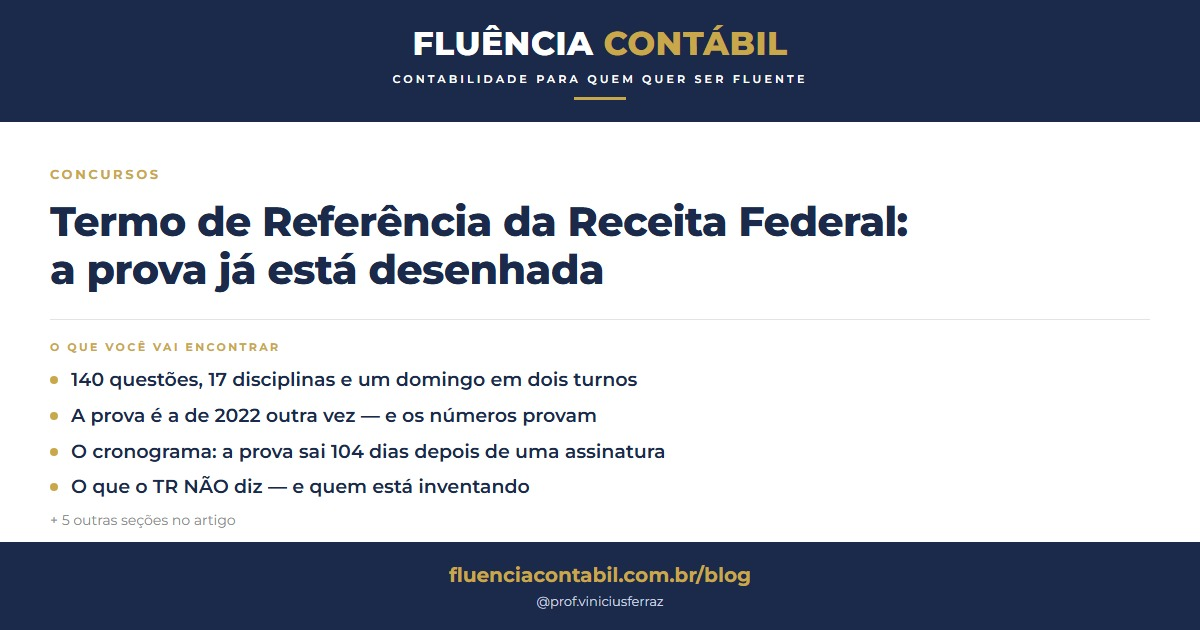
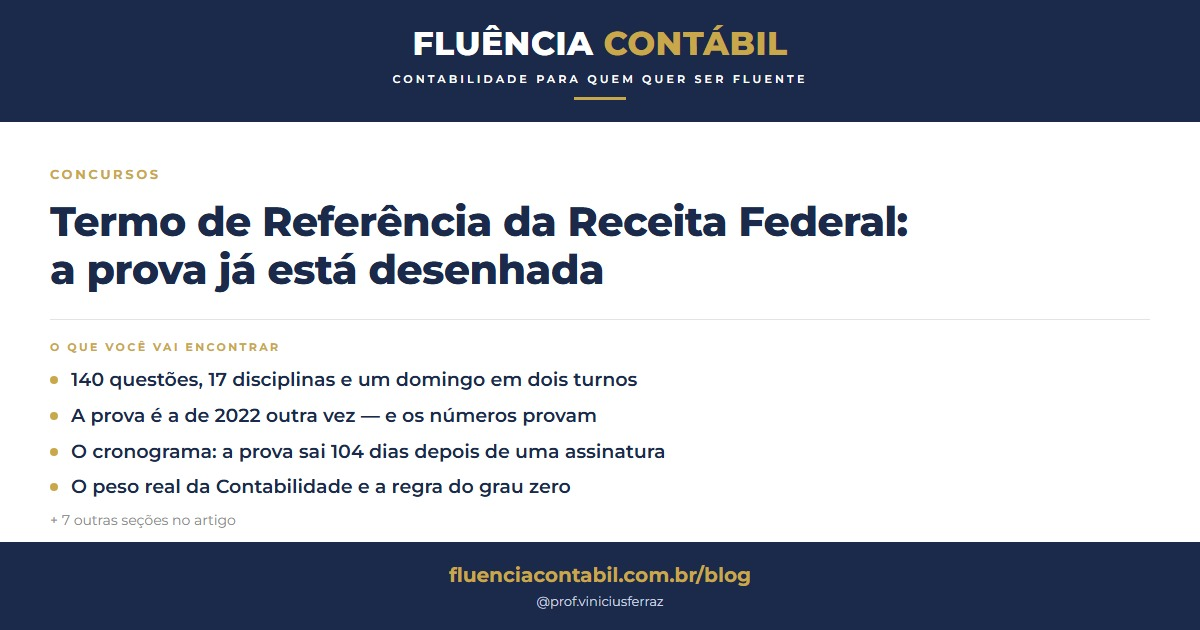
blog: peso real da Contabilidade e o risco do número, lidos no edital de 2022
O quadro de provas de 2022 sai agora do Edital nº 1/2022 (PDF consolidado
da FGV, retificações até 19/01/2023), não de fonte secundária: as 17 e as
11 disciplinas com o número de questões de cada uma.

Três achados que o texto não tinha: o corte de 50% é por módulo (as duas
contábeis do Auditor valem 20% do bloco de básicos, não 11,4% da prova);
o item 9.6.12 elimina quem zera qualquer disciplina; e a discursiva cobra
só conhecimentos específicos, onde a Contabilidade não está.

Seção nova sobre a fragilidade do "140": o TR diz "em torno de", e a
distribuição por disciplina é decisão da Comissão Organizadora (5.1.3.1.2)
que só aparece no edital. Tabela separando o que é firme do que não é.

Claude-Session: https://claude.ai/code/session_01K8g59WJxDkKZAZ9XPFEgsb

Changed region(s): [[0.0617, 0.754, 0.4933, 0.7841], [0.0617, 0.8143, 0.0925, 0.8444]]

diff --git a/blog/receita-federal-termo-de-referencia-2026.html b/blog/receita-federal-termo-de-referencia-2026.html
@@ -116,10 +116,10 @@ j=d.createElement(s),dl=l!='dataLayer'?'&l='+l:'';j.async=true;j.src=
         },
         {
           "@type": "Question",
-          "name": "O que cai de Contabilidade no concurso da Receita Federal?",
+          "name": "Qual o peso da Contabilidade no concurso da Receita Federal?",
           "acceptedAnswer": {
             "@type": "Answer",
-            "text": "O Termo de Referência não lista as disciplinas: o item 5.1.3.1.2 diz que os conteúdos programáticos e a distribuição de questões por disciplina serão indicados à banca pela Comissão Organizadora da RFB. Como o número de disciplinas e de questões repete exatamente o edital de 2022, a melhor referência disponível é aquele quadro: no Auditor-Fiscal, Contabilidade Geral e Pública valeu 8 questões e Auditoria outras 8, das 140; no Analista-Tributário, Contabilidade Geral valeu 10 das 140."
+            "text": "No edital de 2022, o Auditor-Fiscal teve 8 questões de Contabilidade Geral e Pública e mais 8 de Auditoria: 16 das 140, ou 11,4% da prova. O Analista-Tributário teve 10 questões de Contabilidade Geral, 7,1% da prova. O peso efetivo é maior que o percentual sugere por duas razões previstas no próprio edital: o corte de 50% é por módulo, e as duas disciplinas contábeis do Auditor estavam no módulo de básicos, onde valiam 16 de 80 questões (20% do bloco que decide o primeiro corte) — no Analista, 10 de 70, 14,3%; e o item 9.6.12 elimina quem zerar qualquer disciplina, o que dá à Contabilidade poder de eliminação independente da nota nas demais. Em compensação, a discursiva é baseada apenas no conteúdo de conhecimentos específicos, onde a Contabilidade não estava. Para 2026, o Termo de Referência não fixa a distribuição por disciplina: o item 5.1.3.1.2 devolve essa decisão à Comissão Organizadora da RFB, e ela só sai no edital de abertura."
           }
         },
         {
@@ -300,7 +300,7 @@ height="0" width="0" style="display:none;visibility:hidden"></iframe></noscript>
     <div class="hero-meta">
       <span>Por <strong style="color:var(--dourado);">Vinícius Ferraz</strong></span>
       <span>9 set 2026</span>
-      <span>10 min de leitura</span>
+      <span>14 min de leitura</span>
     </div>
   </div>
 </header>
@@ -361,7 +361,8 @@ banca a entregar.</p>
 
 <p>O TR diz "em torno de 140 questões distribuídas em 17 disciplinas" para o Auditor e "em torno de
 140 questões distribuídas em 11 disciplinas" para o Analista. Guarde esses dois pares de números e
-compare com o quadro de provas do <strong>edital de 2022</strong>, executado pela FGV:</p>
+compare com o quadro de provas do item 9.6.4 do <strong>Edital nº 1/2022</strong>, executado pela
+FGV — que fui conferir no PDF consolidado da própria banca, não em resumo de portal:</p>
 
 <div class="table-wrap">
 <table>
@@ -380,21 +381,82 @@ compare com o quadro de provas do <strong>edital de 2022</strong>, executado pel
 
 <p>Não é coincidência: é o mesmo desenho, item por item. E se o desenho é o mesmo, a distribuição de
 questões por disciplina do último edital deixa de ser curiosidade histórica e vira <strong>a melhor
-aposta disponível hoje</strong> — a única que não é chute.</p>
+referência disponível hoje</strong> — a única que não é chute. Este é o quadro completo, as 17 e as
+11 disciplinas, como está no edital:</p>
 
-<div class="box box-dica">
-<span class="box-title">Quanto valeu a Contabilidade em 2022</span>
-<strong>Auditor-Fiscal:</strong> Contabilidade Geral e Pública, 8 questões; Auditoria, 8 questões —
-<strong>16 das 140</strong>, as duas no turno da manhã, ao lado de Economia e Finanças Públicas (6) e
-Estatística (6).<br>
-<strong>Analista-Tributário:</strong> Contabilidade Geral, <strong>10 das 140</strong> — mesmo peso de
-Administração Geral e Pública e de Raciocínio Lógico-Matemático, e mais que Língua Inglesa.
+<div class="table-wrap">
+<table>
+<thead><tr><th>Auditor-Fiscal — manhã (básicos)</th><th>Q</th><th>Auditor-Fiscal — tarde (específicos)</th><th>Q</th></tr></thead>
+<tbody>
+<tr><td>Língua Portuguesa</td><td>10</td><td>Direito Administrativo</td><td>8</td></tr>
+<tr><td>Língua Inglesa</td><td>8</td><td>Direito Constitucional</td><td>8</td></tr>
+<tr><td>Raciocínio Lógico Matemático</td><td>8</td><td>Direito Previdenciário</td><td>8</td></tr>
+<tr><td>Estatística</td><td>6</td><td>Direito Tributário</td><td>10</td></tr>
+<tr><td>Economia e Finanças Públicas</td><td>6</td><td>Legislação Tributária</td><td>8</td></tr>
+<tr><td>Administração Geral</td><td>8</td><td>Comércio Internacional</td><td>8</td></tr>
+<tr><td>Administração Pública</td><td>8</td><td>Legislação Aduaneira</td><td>10</td></tr>
+<tr><td><strong>Auditoria</strong></td><td><strong>8</strong></td><td>&nbsp;</td><td>&nbsp;</td></tr>
+<tr><td><strong>Contabilidade Geral e Pública</strong></td><td><strong>8</strong></td><td>&nbsp;</td><td>&nbsp;</td></tr>
+<tr><td>Fluência em Dados</td><td>10</td><td>&nbsp;</td><td>&nbsp;</td></tr>
+<tr><td><strong>Total do módulo</strong></td><td><strong>80</strong></td><td><strong>Total do módulo</strong></td><td><strong>60</strong></td></tr>
+</tbody>
+</table>
 </div>
 
-<p>Dezesseis questões parecem pouco perto de 140. Mas some: Contabilidade e Auditoria juntas valem,
-no Auditor, mais que Direito Tributário (10) e mais que Legislação Aduaneira (10) isoladamente. E
-valem exatamente o dobro de Estatística. Num concurso decidido no terceiro decimal da nota, essa é a
-faixa onde quem vem de Ciências Contábeis abre vantagem — e onde quem vem de fora costuma sangrar.</p>
+<div class="table-wrap">
+<table>
+<thead><tr><th>Analista-Tributário — manhã (básicos)</th><th>Q</th><th>Analista-Tributário — tarde (específicos)</th><th>Q</th></tr></thead>
+<tbody>
+<tr><td>Língua Portuguesa</td><td>15</td><td>Direito Constitucional</td><td>14</td></tr>
+<tr><td>Língua Inglesa</td><td>10</td><td>Direito Administrativo</td><td>12</td></tr>
+<tr><td>Raciocínio Lógico-Matemático e Estatística</td><td>10</td><td>Direito Tributário e Previdenciário</td><td>16</td></tr>
+<tr><td><strong>Contabilidade Geral</strong></td><td><strong>10</strong></td><td>Legislação Tributária</td><td>14</td></tr>
+<tr><td>Administração Geral e Pública</td><td>10</td><td>Legislação Aduaneira</td><td>14</td></tr>
+<tr><td>Fluência em Dados</td><td>15</td><td>&nbsp;</td><td>&nbsp;</td></tr>
+<tr><td><strong>Total do módulo</strong></td><td><strong>70</strong></td><td><strong>Total do módulo</strong></td><td><strong>70</strong></td></tr>
+</tbody>
+</table>
+</div>
+
+<h2>O peso real da Contabilidade — e por que ele é maior do que parece</h2>
+
+<p>A conta simples: no Auditor, <strong>Contabilidade Geral e Pública (8) mais Auditoria (8) são 16
+das 140 questões — 11,4% da prova</strong>. No Analista, <strong>Contabilidade Geral são 10 das 140,
+7,1%</strong>. Parece pouco. Só que a prova não é corrigida como um bolo único, e é aí que o número
+engana.</p>
+
+<div class="box box-norma">
+<span class="box-title">Edital nº 1/2022, item 9.6.12</span>
+<em>"Será considerado aprovado na Prova Objetiva o candidato que, cumulativamente: a) obtiver 50%
+(cinquenta por cento) de acertos em Conhecimentos Básicos; b) obtiver 50% (cinquenta por cento) de
+acertos em Conhecimentos Específicos; e c) <strong>não obter nota igual a 0 (zero) em nenhuma das
+disciplinas</strong>."</em>
+</div>
+
+<p>Leia de novo a letra "c". <strong>Zerar Contabilidade elimina.</strong> Não importa a nota nas
+outras dezesseis disciplinas: uma única matéria zerada tira o candidato do concurso, sem
+classificação alguma. Em 2022 essa regra valeu para as duas provas, e é o tipo de cláusula que
+sobrevive de edital para edital porque não custa nada ao órgão.</p>
+
+<p>E há a segunda camada. O corte de 50% é <strong>por módulo</strong>, não pelo total. No Auditor, o
+módulo da manhã tem 80 questões — e Contabilidade mais Auditoria são <strong>16 dessas 80, ou seja,
+20% do módulo que decide o primeiro corte</strong>. No Analista, Contabilidade Geral é
+<strong>10 de 70, 14,3% do módulo de básicos</strong>. Uma matéria que vale 7% da prova inteira vale
+o dobro disso no bloco onde a eliminação acontece.</p>
+
+<div class="box box-dica">
+<span class="box-title">O que a discursiva muda nessa conta — e não é a favor</span>
+Seja honesto com a expectativa: pelos itens 9.7.1 e 9.7.2 do edital de 2022, a prova discursiva dos
+dois cargos é baseada no <strong>conteúdo programático de conhecimentos específicos</strong> — e
+Contabilidade e Auditoria estavam nos <em>básicos</em>, no turno da manhã. Ou seja: a matéria
+contábil decidiu a aprovação na objetiva, mas <strong>não caiu na discursiva</strong>. Quem estuda
+para o Auditor precisa de Direito e Legislação para a redação, e de Contabilidade para não ser
+eliminado antes de chegar nela.
+</div>
+
+<p>Some as duas camadas e o retrato fica claro: Contabilidade não é a matéria que mais soma pontos —
+é uma das que mais elimina. Num concurso decidido no terceiro decimal, essa é a faixa onde quem vem
+de Ciências Contábeis abre vantagem, e onde quem vem de fora costuma sangrar.</p>
 
 <h2>O que o TR <em>não</em> diz — e é importante saber</h2>
 
@@ -416,6 +478,53 @@ cabeça da Comissão Organizadora; ela só não foi publicada.</p>
 com a banca), a <strong>taxa de inscrição</strong>, a <strong>data da prova</strong> em calendário e a
 lista nominal das disciplinas. Quem publicar qualquer um desses quatro dados esta semana como se fosse
 "do Termo de Referência" está inventando.</p>
+
+<h2>Onde esse número pode escorregar</h2>
+
+<p>Um texto que vive de número precisa dizer com que firmeza segura cada um. Então: <strong>o "140"
+não é uma promessa.</strong> O próprio TR escreve "quantitativo <em>em torno de</em> 140 questões" —
+a expressão está lá, em ambos os cargos, e não é acidente de redação. Ela dá à Comissão Organizadora
+a folga de fechar o edital com 138, 142 ou 145 sem descumprir o contrato.</p>
+
+<p>Há três camadas de risco, e elas não têm o mesmo tamanho:</p>
+
+<div class="table-wrap">
+<table>
+<thead><tr><th>O que pode mudar</th><th>Risco</th><th>Por quê</th></tr></thead>
+<tbody>
+<tr><td>Total de ~140 questões, 2 turnos, domingo, 26 capitais</td><td>Baixo</td><td>Está no objeto contratado e dimensiona preço, logística e pessoal. Mexer aqui significa renegociar o contrato com a banca.</td></tr>
+<tr><td>Número de disciplinas (17 e 11)</td><td>Baixo a médio</td><td>Também está no TR, mas é mais barato de ajustar do que a logística. Bate exatamente com 2022, o que sugere decisão já tomada.</td></tr>
+<tr><td><strong>Quantas questões cada disciplina recebe</strong></td><td><strong>Alto</strong></td><td>Não está no TR. O item 5.1.3.1.2 devolve essa decisão inteira à Comissão Organizadora da RFB, e ela só aparece no edital de abertura.</td></tr>
+</tbody>
+</table>
+</div>
+
+<p>Ou seja: a moldura é firme, o recheio não. Os "8 + 8" do Auditor e os "10" do Analista deste texto
+são <strong>o que valeu em 2022</strong> — não o que a Receita já decidiu para 2027. E há um motivo
+concreto para esperar algum remanejamento: entre um edital e outro entraram no ordenamento a
+<strong>EC nº 132/2023</strong> e a <strong>LC nº 214/2025</strong> da reforma tributária, matéria
+que não existia no programa de 2022 e que precisa caber em algum lugar. Quando um conteúdo novo
+entra, alguma disciplina cede espaço.</p>
+
+<div class="box box-pegadinha">
+<span class="box-title">O erro que esse número induz</span>
+Montar cronograma de estudo em cima de "são 8 questões" é o uso errado do dado. Oito questões não
+justificam três meses de Contabilidade Societária — mas <strong>a regra do grau zero e o corte de
+50% por módulo justificam</strong>, e essas duas não dependem de quantas questões a matéria vai ter.
+Use a distribuição de 2022 para <em>ordenar</em> o estudo, nunca para decidir o que cortar.
+</div>
+
+<p>Uma última camada de segurança, essa estrutural: a Contabilidade não é candidata a desaparecer do
+programa porque ela é <strong>atribuição legal do cargo</strong>. O edital de 2022 lista, entre as
+atividades do Auditor-Fiscal, <em>"examinar a contabilidade de sociedades empresariais, empresários,
+órgãos, entidades, fundos e demais contribuintes"</em>. Um concurso não deixa de cobrar a matéria que
+descreve o trabalho. O que muda é o tamanho da fatia — e nenhuma variação plausível de fatia muda a
+decisão de estudar.</p>
+
+<p>Vale registrar também que <strong>edital muda depois de publicado</strong>: o de 2022 foi
+retificado três vezes, e a versão que usei aqui é a consolidada até 19/01/2023, já com a prorrogação
+do prazo de inscrições. Retificação é o normal do processo, não a exceção — mais uma razão para
+tratar qualquer número anterior à publicação como referência, e não como contrato com você.</p>
 
 <h2>O cronograma: a prova sai 104 dias depois de uma assinatura</h2>
 
@@ -491,8 +600,12 @@ de item.</p>
 <h2>O que fazer com esse tempo — na sua matéria</h2>
 
 <p>Se a prova é a de 2022 outra vez, a Contabilidade do Auditor é <em>Contabilidade Geral e Pública</em>
-mais <em>Auditoria</em>; a do Analista é <em>Contabilidade Geral</em>, sozinha e com peso de 10
-questões. Uma ordem que respeita essa realidade e a curva de quem está começando:</p>
+mais <em>Auditoria</em>; a do Analista é <em>Contabilidade Geral</em>, sozinha. Repare no nome
+completo da disciplina do Auditor: o programa de 2022 abria com Contabilidade Geral e fechava com
+<strong>Contabilidade Aplicada ao Setor Público</strong> — NBC TSP, MCASP, PCASP, restos a pagar. São
+duas contabilidades dentro de uma disciplina de oito questões, e o candidato que só estuda a
+societária chega com metade do programa. Uma ordem que respeita isso e a curva de quem está
+começando:</p>
 
 <p><strong>De agora até o edital — a base que não dá para acelerar depois.</strong> Estrutura
 Conceitual (CPC 00) e apresentação das demonstrações (CPC 26). É o que transforma cada CPC novo em
@@ -532,7 +645,7 @@ nessa prova — societária, com cálculo, na linha dos CPCs — não é matéri
 matéria que se <em>revisa</em> em 78 dias. A diferença entre as duas coisas está sendo decidida
 agora, enquanto o edital não sai.</p>
 
-<p style="font-size:13px;color:var(--texto-suave);font-style:italic;border-top:1px solid rgba(201,168,76,0.25);padding-top:16px;margin-top:32px;">Fonte: <strong>Termo de Referência nº 82/2026</strong>, UASG 170010 — MF-SRF-Secretaria da Receita Federal/DF, processo administrativo 18220.000607/2026-16, status ASSINADO, versão 0.4 atualizada em 04/09/2026, 46 páginas, obtido no próprio site da RFB (gov.br/receitafederal → Acesso à Informação → Servidores → Concurso Público 2026 → <em>termo-de-referencia-082_2026.pdf</em>). Todos os itens citados entre aspas foram lidos no PDF oficial, não em matéria de imprensa: quantitativo de questões e disciplinas (5.1.3.1.3.1.1 a 5.1.3.1.3.1.4), dia e turnos (5.1.3.1.3.1.6 e 5.1.3.1.3.1.7), definição de conteúdo pela Comissão Organizadora (5.1.3.1.2), estimativa de 42.000 candidatos (1.6), capitais (1.4), Curso de Formação (1.5 e 5.1.3.2.1 a 5.1.3.2.8), vigência (1.12), requisitos de qualificação técnica (4.1.4 e 4.1.5) e cronograma proposto (Anexo IV). A autorização do certame é a Portaria MGI nº 5.505, de 3 de julho de 2026 (146 vagas: 116 de Analista-Tributário e 30 de Auditor-Fiscal). As previsões de contrato em outubro e de edital em dezembro de 2026 são da notícia oficial da Receita Federal publicada em 08/09/2026, e a meta de 30 de dezembro consta do Plano de Contratações Anual de 2026. A distribuição de questões por disciplina do edital de 2022 (FGV) foi conferida em duas fontes independentes, que somam 140 questões em cada cargo. As datas de calendário deste texto são projeções aritméticas sobre o cronograma do Anexo IV, e não datas oficiais: o próprio TR diz, no item 5.1.2, que o cronograma será definido em conjunto com a contratada. Consulta em 9 de setembro de 2026 — até essa data não havia banca contratada nem edital publicado.</p>
+<p style="font-size:13px;color:var(--texto-suave);font-style:italic;border-top:1px solid rgba(201,168,76,0.25);padding-top:16px;margin-top:32px;">Fonte: <strong>Termo de Referência nº 82/2026</strong>, UASG 170010 — MF-SRF-Secretaria da Receita Federal/DF, processo administrativo 18220.000607/2026-16, status ASSINADO, versão 0.4 atualizada em 04/09/2026, 46 páginas, obtido no próprio site da RFB (gov.br/receitafederal → Acesso à Informação → Servidores → Concurso Público 2026 → <em>termo-de-referencia-082_2026.pdf</em>). Todos os itens citados entre aspas foram lidos no PDF oficial, não em matéria de imprensa: quantitativo de questões e disciplinas (5.1.3.1.3.1.1 a 5.1.3.1.3.1.4), dia e turnos (5.1.3.1.3.1.6 e 5.1.3.1.3.1.7), definição de conteúdo pela Comissão Organizadora (5.1.3.1.2), estimativa de 42.000 candidatos (1.6), capitais (1.4), Curso de Formação (1.5 e 5.1.3.2.1 a 5.1.3.2.8), vigência (1.12), requisitos de qualificação técnica (4.1.4 e 4.1.5) e cronograma proposto (Anexo IV). A autorização do certame é a Portaria MGI nº 5.505, de 3 de julho de 2026 (146 vagas: 116 de Analista-Tributário e 30 de Auditor-Fiscal). As previsões de contrato em outubro e de edital em dezembro de 2026 são da notícia oficial da Receita Federal publicada em 08/09/2026, e a meta de 30 de dezembro consta do Plano de Contratações Anual de 2026. O quadro de provas de 2022 — as 17 e as 11 disciplinas com o número de questões de cada uma, a regra do grau zero e o corte de 50% por módulo — foi lido no <strong>Edital nº 1/2022 da RFB</strong> (itens 9.6.1, 9.6.4, 9.6.12, 9.7.1 e 9.7.2), no PDF consolidado publicado pela FGV com as retificações do DOU até 19/01/2023, e não em resumo de portal; a atribuição de "examinar a contabilidade" consta do Anexo de atribuições do mesmo edital. Os percentuais (11,4%, 7,1%, 20% e 14,3%) são cálculo próprio sobre esse quadro. As datas de calendário deste texto são projeções aritméticas sobre o cronograma do Anexo IV, e não datas oficiais: o próprio TR diz, no item 5.1.2, que o cronograma será definido em conjunto com a contratada. Consulta em 9 de setembro de 2026 — até essa data não havia banca contratada nem edital publicado.</p>
 </article>
 
 <aside class="sidebar">

diff --git a/blog.html b/blog.html
@@ -309,7 +309,7 @@ height="0" width="0" style="display:none;visibility:hidden"></iframe></noscript>
       <p itemprop="description">O TR nº 82/2026, assinado em 4 de setembro, já fixa 140 questões, 17 disciplinas no Auditor e 11 no Analista, um domingo em dois turnos nas 26 capitais e 42 mil concorrentes estimados — e coloca a prova 104 dias depois da assinatura do contrato com a banca.</p>
       <div class="card-meta">
         <time datetime="2026-09-09">9 set 2026</time>
-        <span>10 min de leitura</span>
+        <span>14 min de leitura</span>
       </div>
       <span class="read-more">Ler artigo →</span>
     </div>
@@ -430,7 +430,7 @@ height="0" width="0" style="display:none;visibility:hidden"></iframe></noscript>
       <p itemprop="description">Duas vagas e prova em 18 de outubro. O bloco específico vale 58 dos 100 pontos da objetiva, o corte é duplo — e a tabela de vencimentos do tribunal mostra a escada inteira da carreira.</p>
       <div class="card-meta">
         <time datetime="2026-08-17">17 ago 2026</time>
-        <span>10 min de leitura</span>
+        <span>14 min de leitura</span>
       </div>
     </div>
   </a>
@@ -603,7 +603,7 @@ height="0" width="0" style="display:none;visibility:hidden"></iframe></noscript>
       <p itemprop="description">35 questões mapeadas em duas provas. Veja os padrões da FCC e o que estudar para o próximo edital.</p>
       <div class="card-meta">
         <time datetime="2026-04-09">9 abr 2026</time>
-        <span>10 min de leitura</span>
+        <span>14 min de leitura</span>
       </div>
     </div>
   </a>
@@ -717,7 +717,7 @@ height="0" width="0" style="display:none;visibility:hidden"></iframe></noscript>
       <p itemprop="description">Ativo, passivo e patrimônio líquido explicados com lógica. Uma vez que você entende a estrutura, nunca mais esquece.</p>
       <div class="card-meta">
         <time datetime="2026-03-09">9 mar 2026</time>
-        <span>10 min de leitura</span>
+        <span>14 min de leitura</span>
       </div>
     </div>
   </a>
